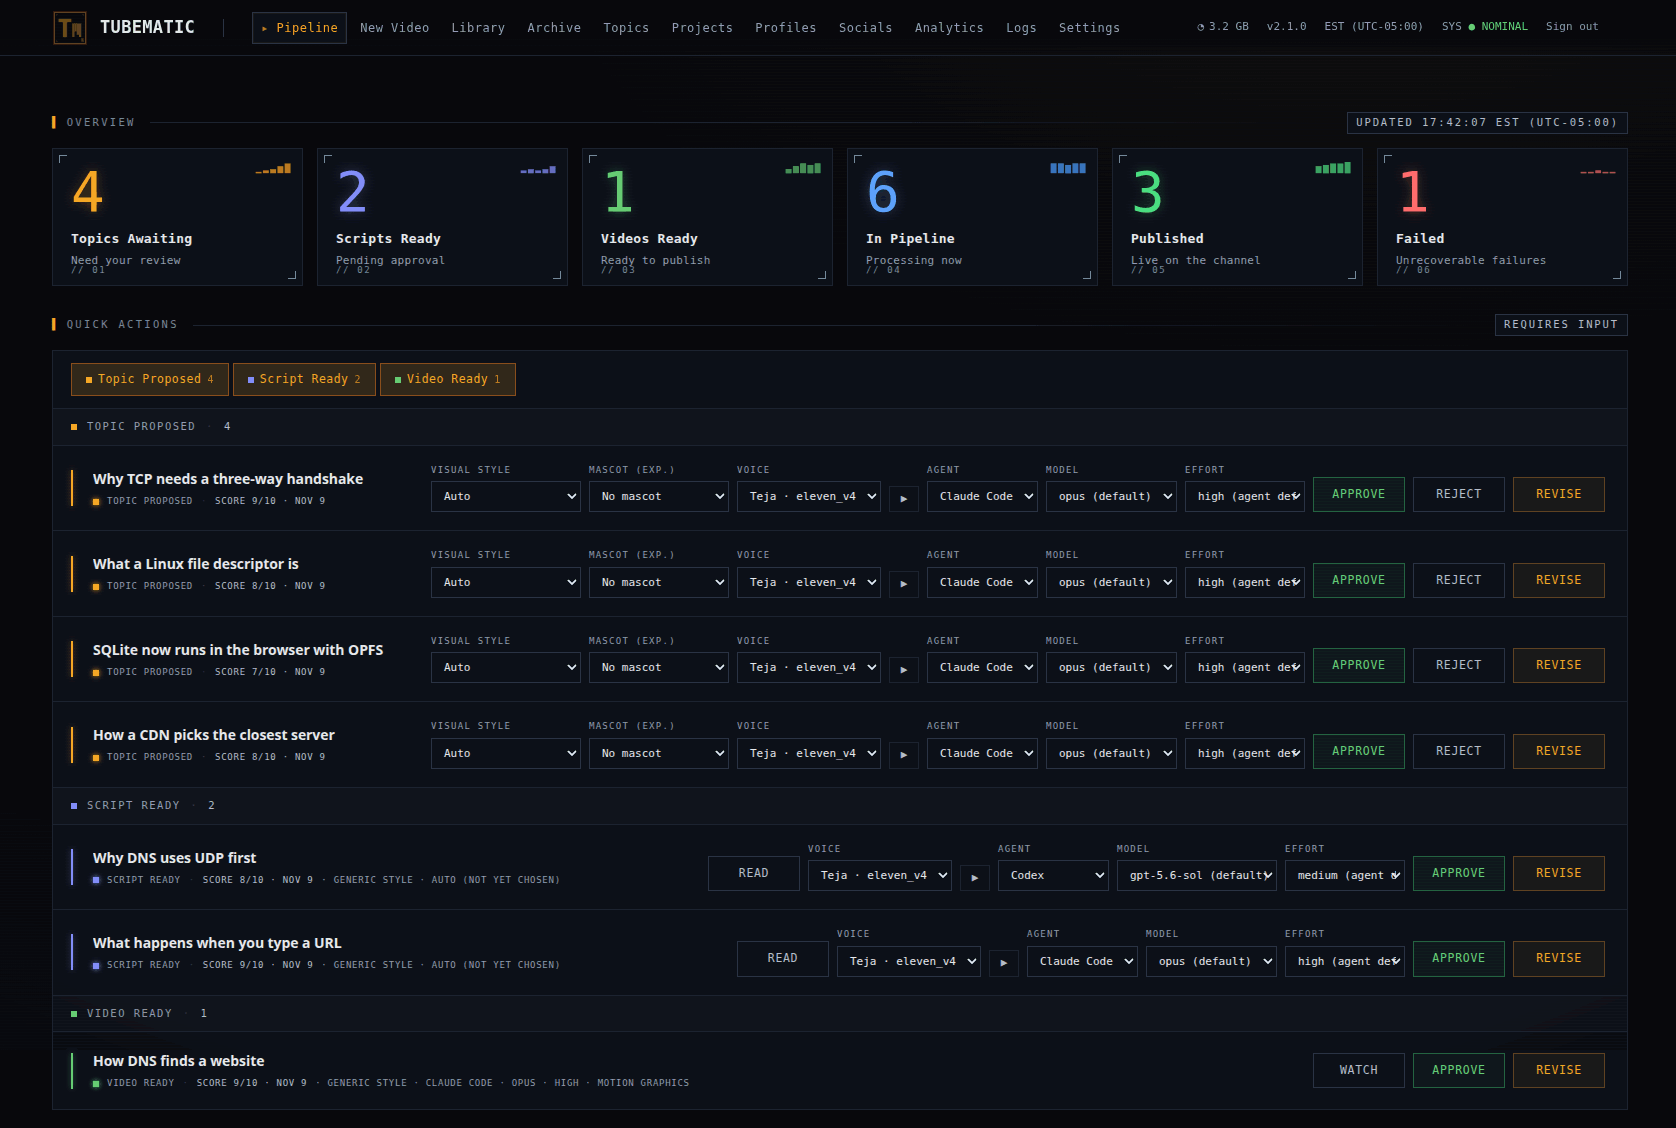
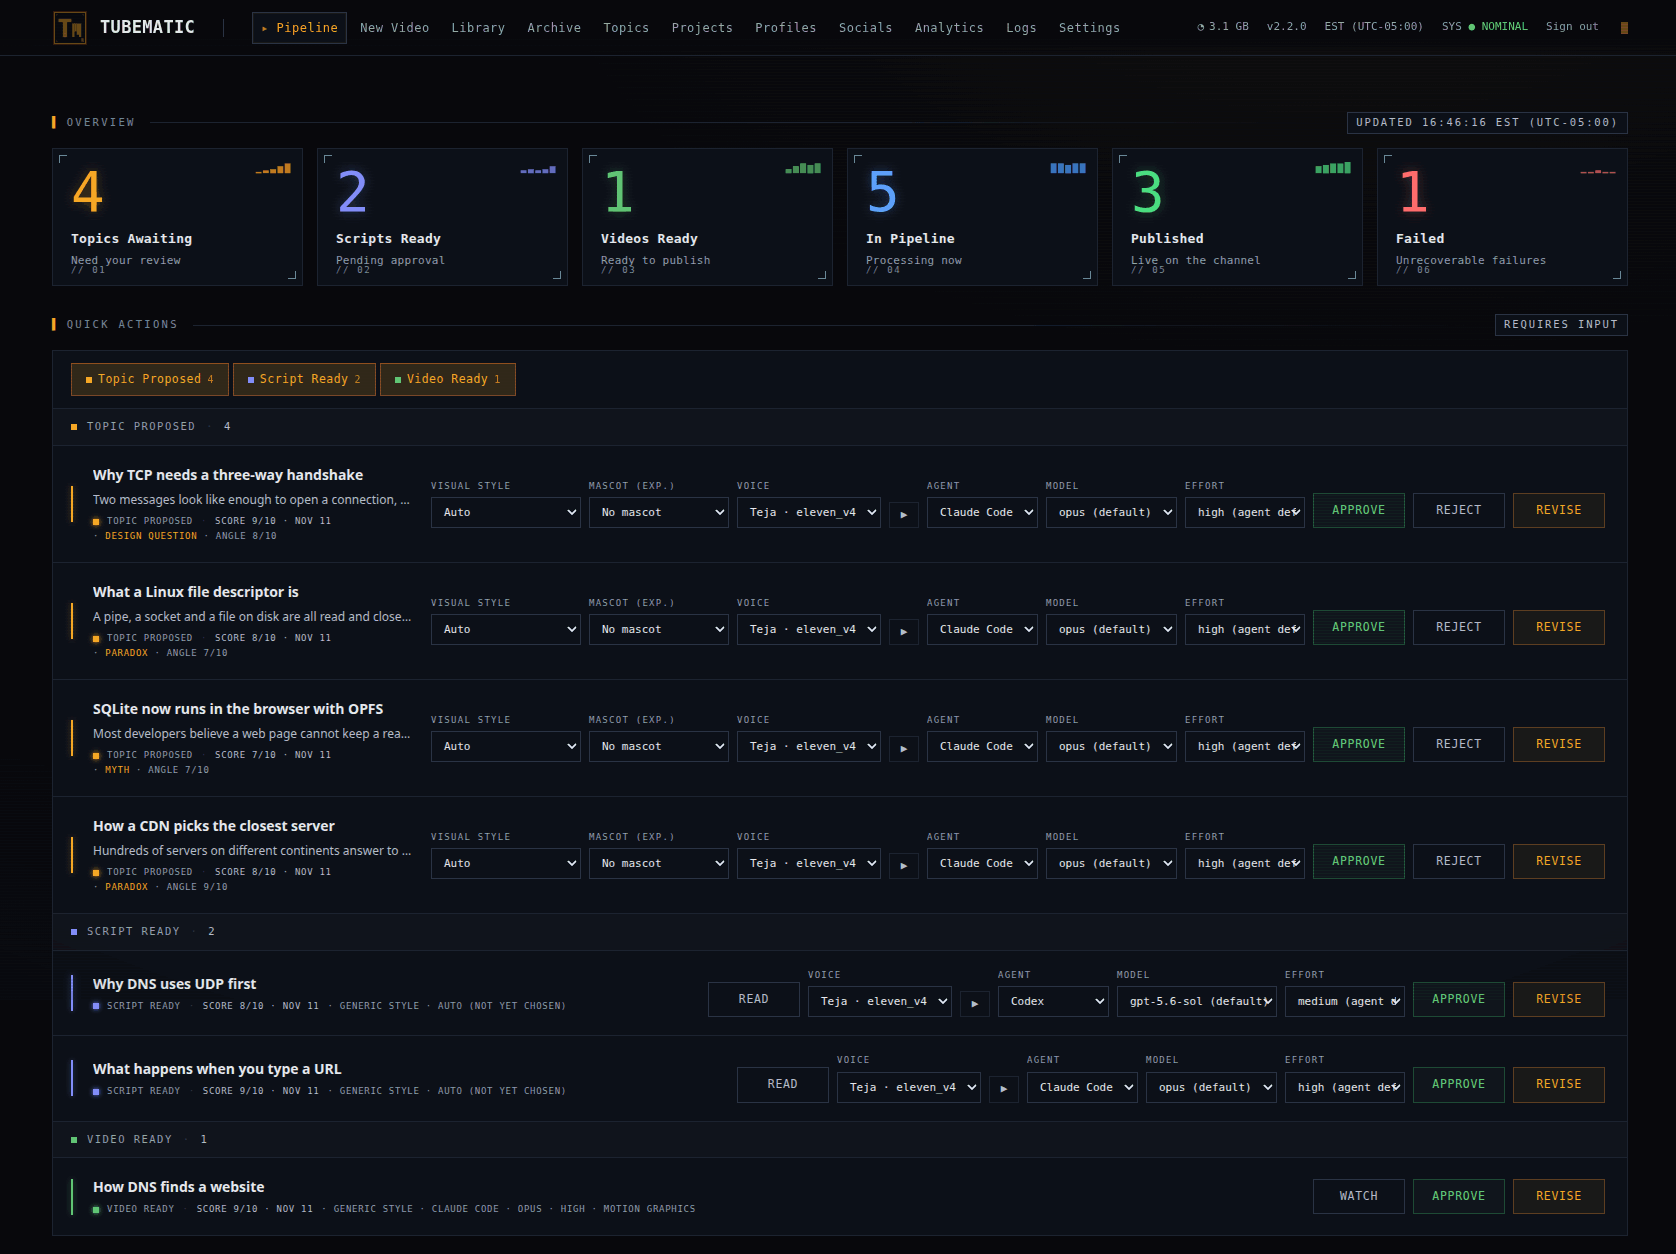
Docs: re-take the Quick Actions, video window and New Video images, which now show a topic's angle (TMDEV-214)
Claude-Session: https://claude.ai/code/session_01DnMpuPv5BKf4vRqRS4cPyu

diff --git a/docs/user-guide/04-dashboard.md b/docs/user-guide/04-dashboard.md
@@ -83,7 +83,7 @@ Pipeline, Library, Projects and Profiles refresh every 5 seconds, so you can lea
 
 The page has three parts.
 
-![The Pipeline page: the Overview counts, then Quick Actions with four topics, two scripts and one video waiting for a decision](../images/pipeline-quick-actions.png)
+![The Pipeline page: the Overview counts, then Quick Actions with four topics, each showing its angle, two scripts and one video waiting for a decision](../images/pipeline-quick-actions.png)
 
 **Overview** shows six counts: topics awaiting you, scripts ready, videos ready, videos in the
 pipeline, published and failed.
